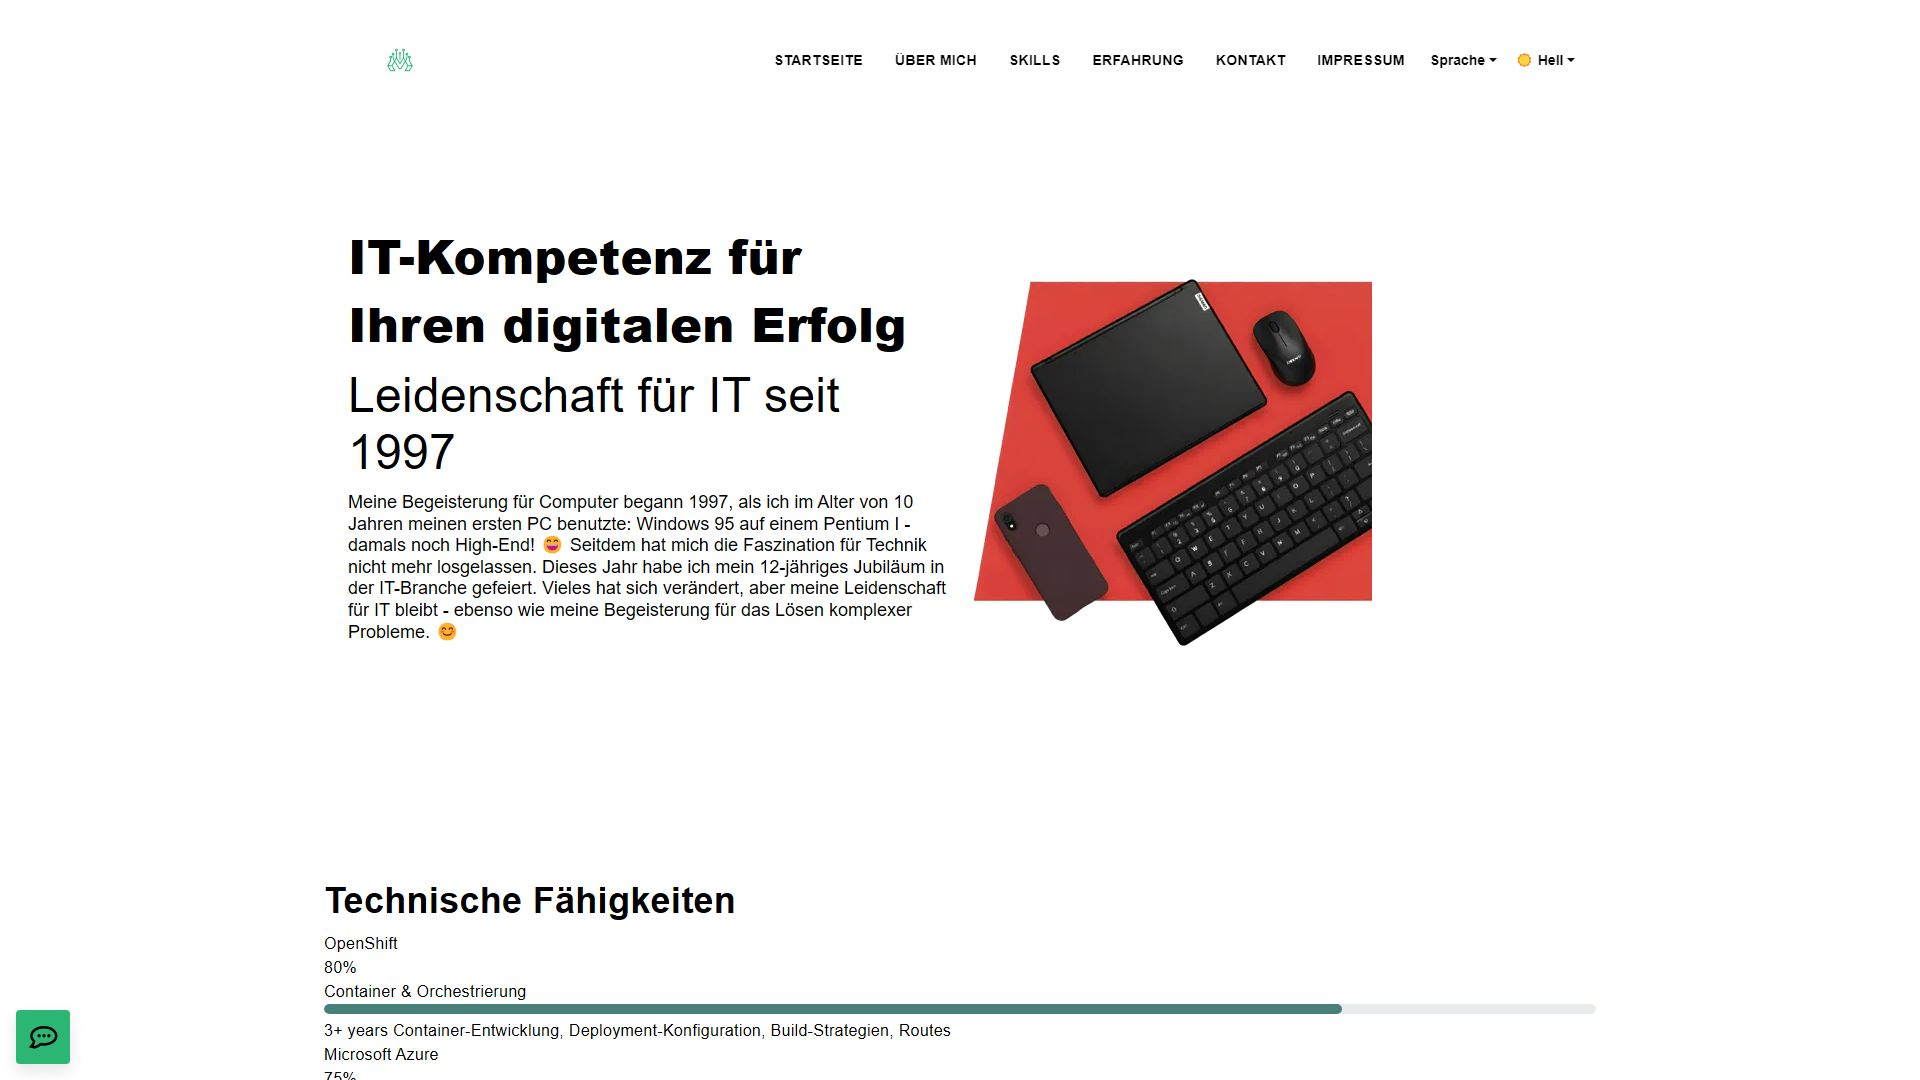
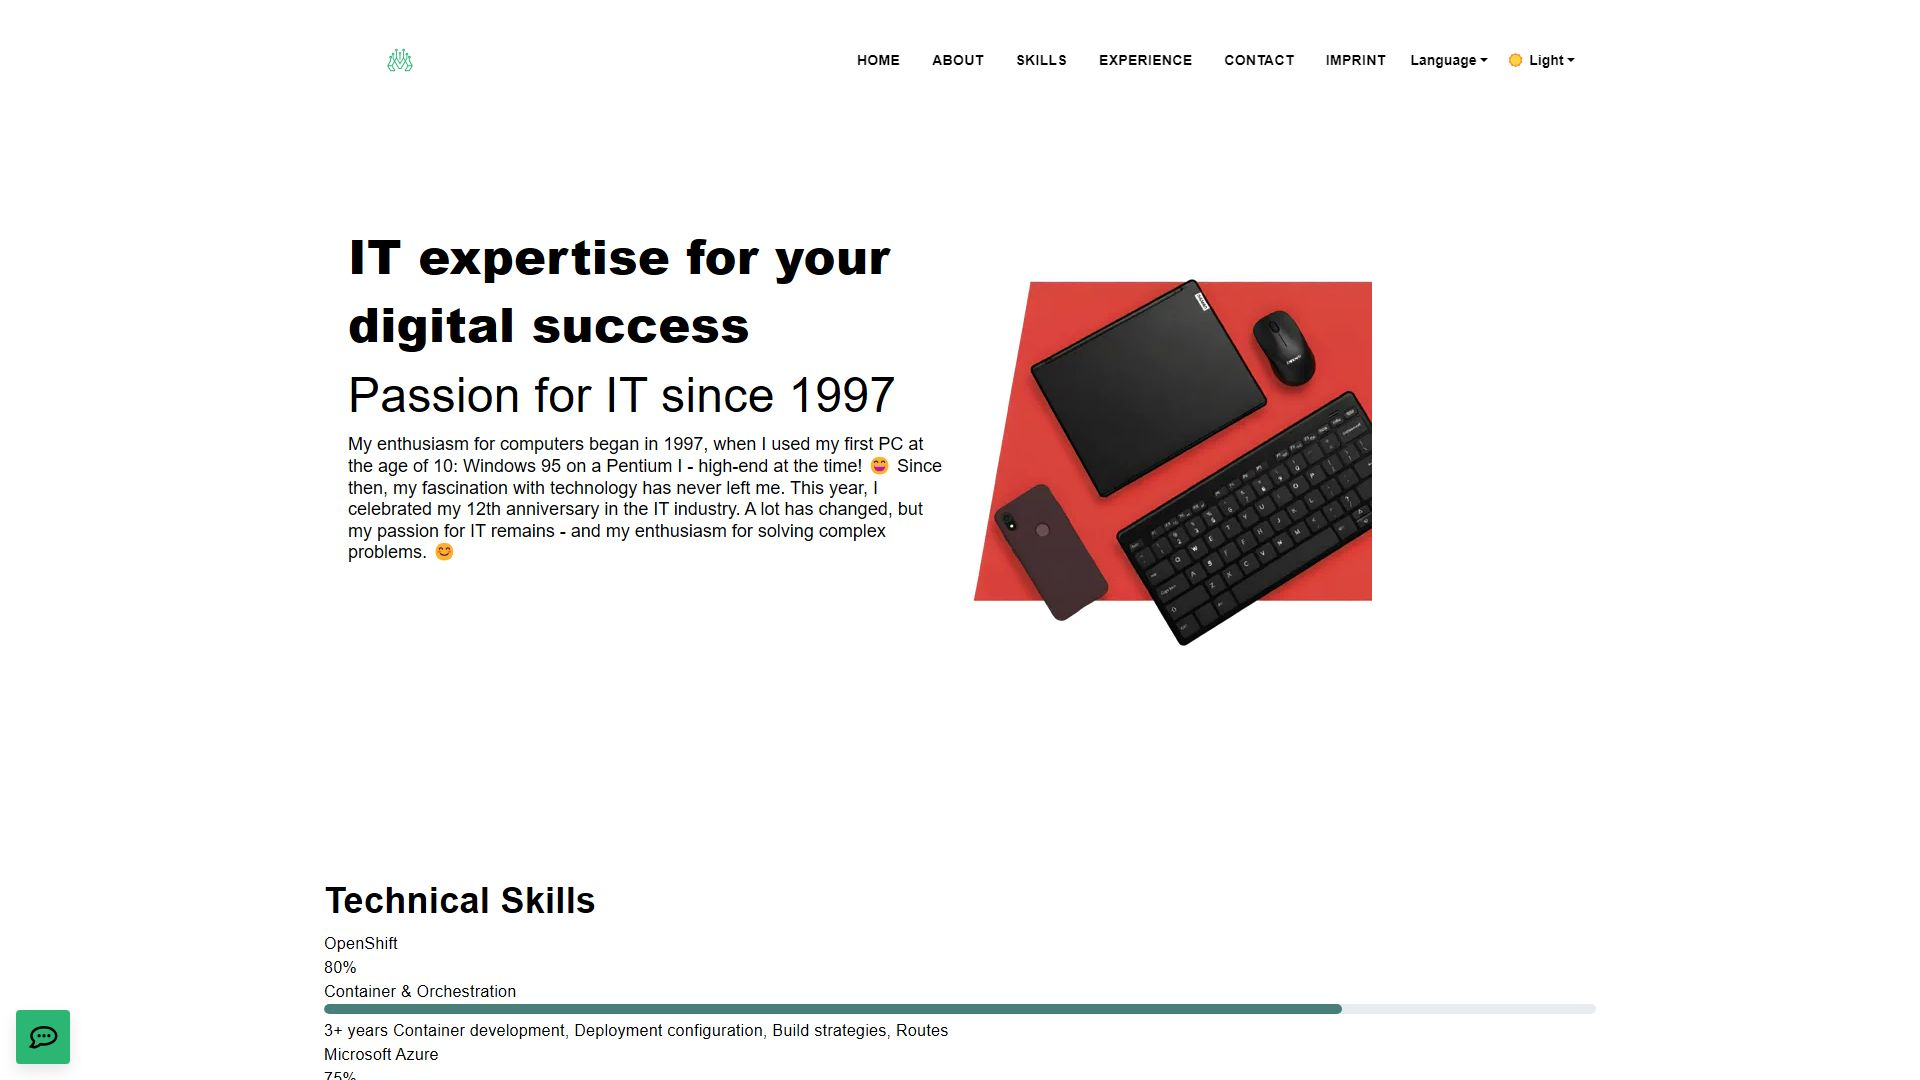
fix: add unsafe-hashes and hash for CSS preload onload handler

diff --git a/test-site.js b/test-site.js
@@ -2,10 +2,13 @@ const { chromium } = require('playwright');
 
 (async () => {
   const browser = await chromium.launch();
-  const context = await browser.newContext({
-    viewport: { width: 1920, height: 1080 }
+  
+  // Test German version with German locale
+  const contextDE = await browser.newContext({
+    viewport: { width: 1920, height: 1080 },
+    locale: 'de-DE'
   });
-  const page = await context.newPage();
+  const page = await contextDE.newPage();
 
   console.log('Testing https://max-it.tech/ (DE)...');
   
@@ -20,23 +23,34 @@ const { chromium } = require('playwright');
     if (msg.type() === 'error') errors.push(msg.text());
   });
 
-  // Test English version
+  // Test English version with English locale
   console.log('Testing https://max-it.tech/en/ (EN)...');
-  await page.goto('https://max-it.tech/en/', { waitUntil: 'networkidle' });
-  await page.screenshot({ path: 'screenshot-en.jpg', type: 'jpeg', quality: 80 });
+  const contextEN = await browser.newContext({
+    viewport: { width: 1920, height: 1080 },
+    locale: 'en-US'
+  });
+  const pageEN = await contextEN.newPage();
+  
+  // Clear localStorage to prevent redirect
+  await pageEN.addInitScript(() => {
+    localStorage.removeItem('preferredLanguage');
+  });
+  
+  await pageEN.goto('https://max-it.tech/en/', { waitUntil: 'networkidle' });
+  await pageEN.screenshot({ path: 'screenshot-en.jpg', type: 'jpeg', quality: 80 });
   console.log('✓ Screenshot EN saved');
 
   // Test navigation and interactive elements
   console.log('Testing navigation...');
-  const navLinks = await page.locator('nav a').count();
+  const navLinks = await pageEN.locator('nav a').count();
   console.log(`✓ Found ${navLinks} navigation links`);
 
   // Check if main sections are visible
-  const header = await page.locator('header').isVisible();
+  const header = await pageEN.locator('header').isVisible();
   console.log(`✓ Header visible: ${header}`);
 
   // Check CSP headers
-  const response = await page.goto('https://max-it.tech/');
+  const response = await pageEN.goto('https://max-it.tech/en/');
   const csp = response.headers()['content-security-policy'];
   console.log('\n--- CSP Header ---');
   console.log(csp ? csp.substring(0, 200) + '...' : 'No CSP header found!');
